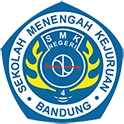
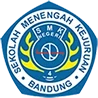
chore: compress images

diff --git a/components/home/work-experience.tsx b/components/home/work-experience.tsx
@@ -25,7 +25,7 @@ export default function WorkExperience() {
         'Crafting intuitive web applications with reusable components, API integration, and optimized business logic to empower farmers and drive innovation.',
     },
     {
-      logo: '/work/paxel.png',
+      logo: '/work/paxel.webp',
       flag: '/flag/id.webp',
       company: 'Paxel Indonesia',
       position: [
@@ -38,7 +38,7 @@ export default function WorkExperience() {
         'Enhance and maintain logistics shipment apps to optimize operations and ensure seamless flow within customers, business and warehouses.',
     },
     {
-      logo: '/work/lexigo.jpg',
+      logo: '/work/lexigo.webp',
       flag: '/flag/au.webp',
       company: 'Lexigo',
       position: [
@@ -51,7 +51,7 @@ export default function WorkExperience() {
         'Create translation and localization web apps with cloud-based technology to enable organizations to communicate with confidence.',
     },
     {
-      logo: '/work/sgara.png',
+      logo: '/work/sgara.webp',
       flag: '/flag/id.webp',
       company: 'Sgara (PT. Transformasi Digital Laut)',
       position: [
@@ -68,7 +68,7 @@ export default function WorkExperience() {
         'Create a one-stop platform for shrimp farming with data-driven farm advisory and marketplace solution form shrimp farmers.',
     },
     {
-      logo: '/project/edunex.png',
+      logo: '/project/edunex.webp',
       flag: '/flag/id.webp',
       company: 'Cognisia',
       position: [
@@ -81,7 +81,7 @@ export default function WorkExperience() {
         'Developed a custom Web-based Learning Management System (LMS) for Bandung Institute Technology (ITB).',
     },
     {
-      logo: '/work/someah.jpg',
+      logo: '/work/someah.webp',
       flag: '/flag/id.webp',
       company: 'Someah Kreatif Nusantara',
       position: [
